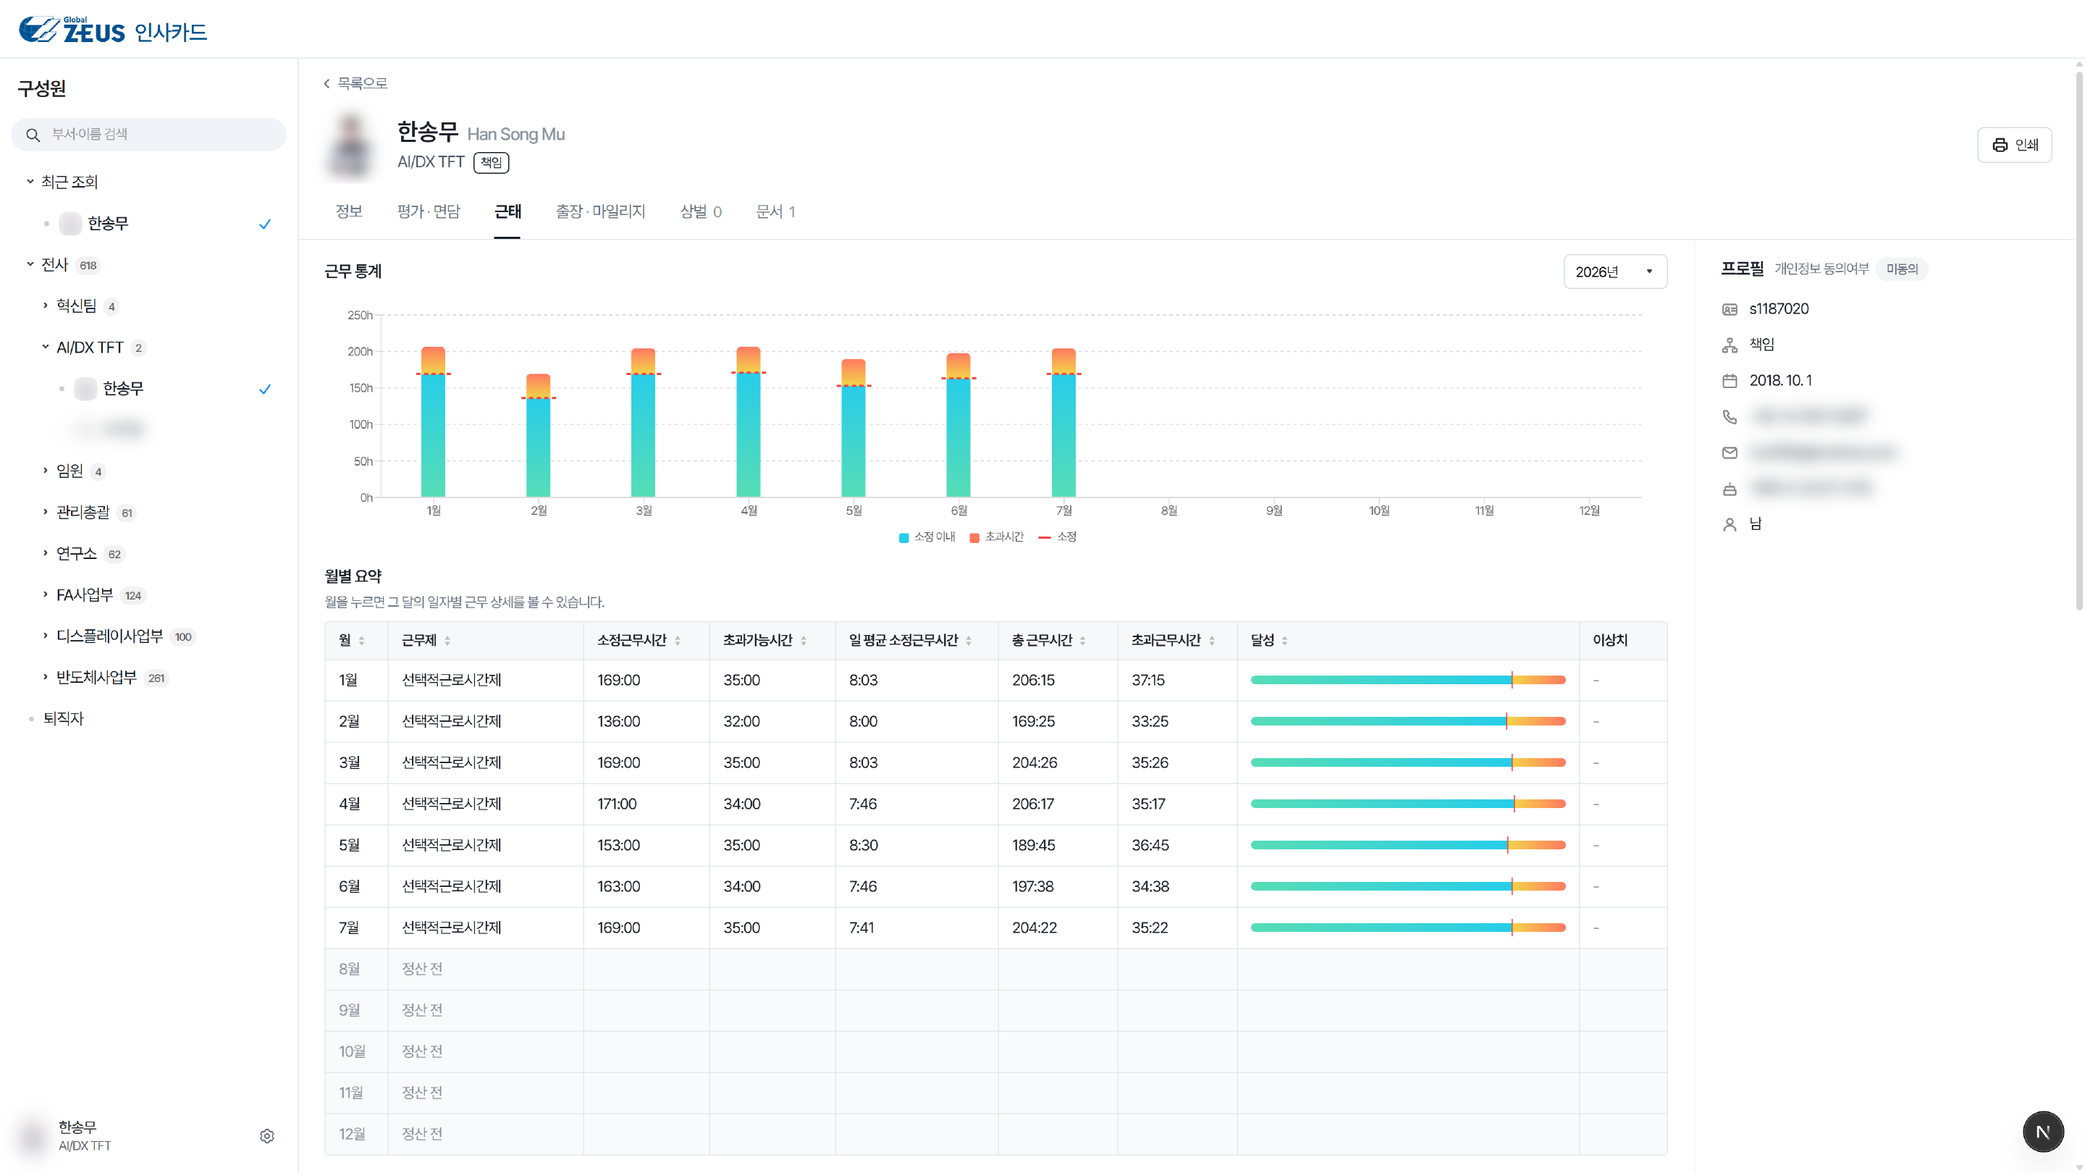
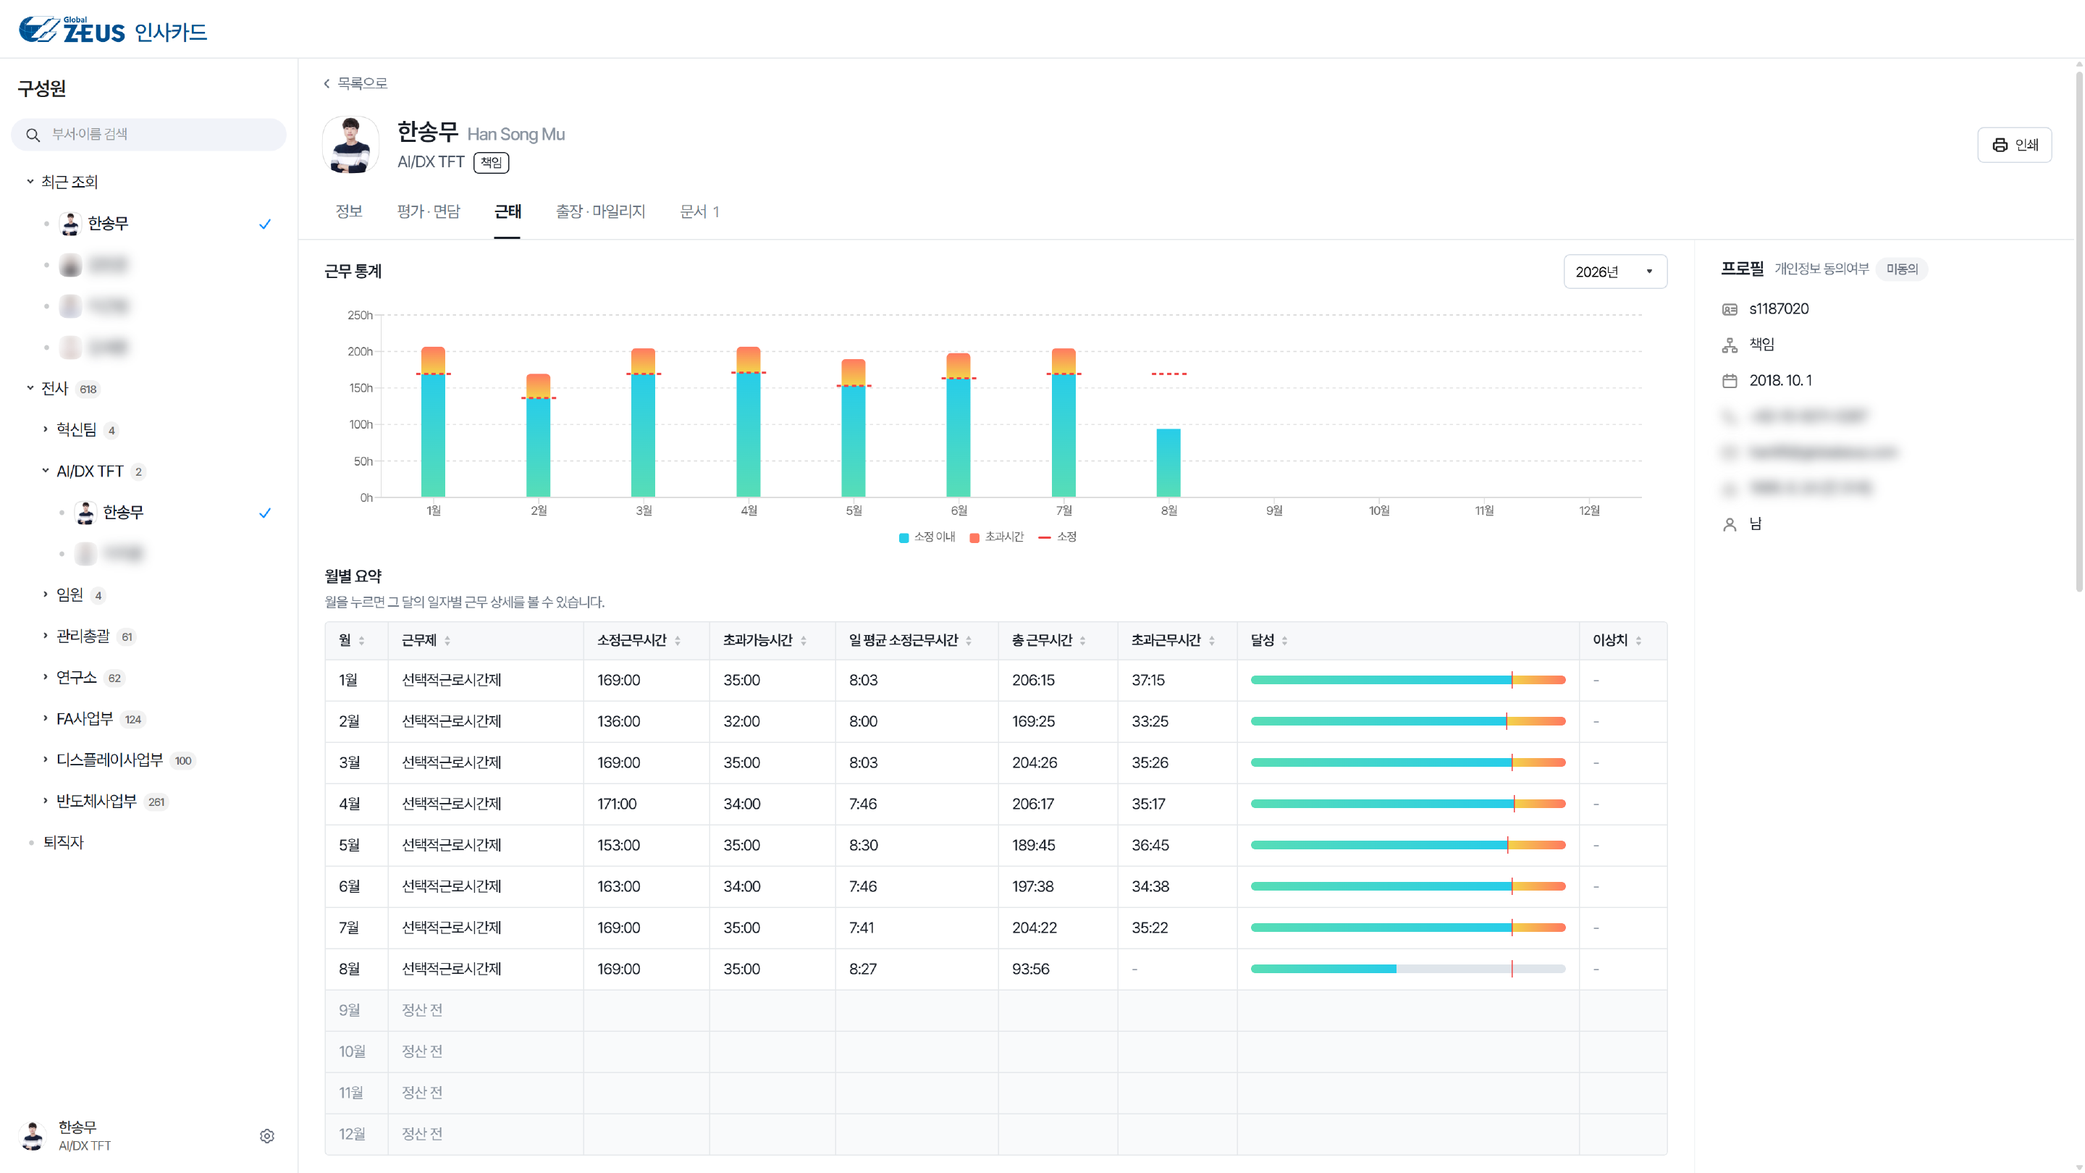
content(personnel-card): 본문을 설계 기준 중심으로 재작성
레거시와 행 단위로 대조한 수치, 옮기며 찾은 버그를 나열하던 구성이
"남긴 코드가 얼마나 나빴는지"에 가까웠다. 이번에 무엇을 기준으로
정했는지가 읽는 사람에게 쓸모 있다고 보고, 설계 기준과 그 기준이
권한·열람 기록·인쇄에서 어떻게 지켜졌는지로 다시 썼다.

같은 구성으로 화면 6종을 다시 캡처했다.

diff --git a/src/content/builds.ts b/src/content/builds.ts
@@ -12,40 +12,30 @@ export const builds: Build[] = [
     blocks: [
       { type: 'image', src: '/projects/personnel-card/196.png', alt: '인사카드 구성원 목록 화면', caption: '구성원 목록 - 조직 트리에서 부서를 고르고 표에서 사람을 찾습니다' },
       { type: 'heading', text: '개요' },
-      { type: 'paragraph', text: '임직원 한 사람의 인사 정보를 모아 보는 화면입니다. 기본 인적사항과 발령 이력, 학력과 경력, 자격증, 평가 등급처럼 인사 담당자와 조직 책임자가 확인해야 하는 자료가 여기에 모입니다. 그룹웨어를 Next.js로 옮기는 동안 이 화면만 오래된 EJS와 jQuery로 남아 있었고, 그것을 다시 만들면서 조회 성능과 그 과정에서 드러난 버그를 함께 정리했습니다.' },
-      { type: 'heading', text: '다시 만든 이유' },
-      { type: 'paragraph', text: '규모는 3,200줄 정도로 작았지만 손대기 어려운 구조였습니다. 목록과 상세를 오갈 때 AJAX로 HTML 조각을 갈아끼우는 방식이라 주소가 없었습니다. 누군가의 인사카드를 열어 둔 채 새로고침하면 목록으로 돌아가고, 뒤로가기도 링크 공유도 되지 않았습니다. 프론트 로직 1,280줄은 전부 jQuery 문자열 템플릿이었습니다.' },
-      { type: 'paragraph', text: '반대로 백엔드에는 로직이 거의 없었습니다. 데이터는 사실상 ERP 저장 프로시저를 부르는 것이 전부여서, 재구현은 화면을 다시 짜는 일에 가까웠습니다. 기능은 그대로 두고 구조만 바꾸는 것으로 범위를 잡았습니다.' },
-      { type: 'heading', text: '조회를 앱으로 가져오기' },
-      { type: 'paragraph', text: '처음에는 기존 저장 프로시저를 그대로 호출할 생각이었습니다. 화면만 다시 만드는 것이니 데이터 계층을 건드릴 이유가 없었습니다. 그런데 조회 성능을 같이 고치는 것이 목적이라면 로직이 프로시저 안에 묻혀 있는 것 자체가 걸림돌이었습니다. 그래서 조회 쿼리를 애플리케이션 코드로 옮겼습니다. 옮기고 나면 리뷰와 롤백이 가능해지고, 실제로 이때 찾은 버그들이 전부 프로시저 안에 숨어 있었습니다.' },
-      { type: 'paragraph', text: '목록 첫 페이지를 여는 데 1.2초에서 1.7초가 걸리고 있었습니다. 그중 절반 가까이는 근태와 연차 집계였습니다. 링크드 서버에서 1년치 전건 3만여 행을 임시 테이블로 끌어와 직원별 합계 하나를 만들고 있었습니다.' },
-      { type: 'paragraph', text: '이상해 보이지만 이유가 있는 코드였습니다. 같은 집계를 원격 테이블 이름으로 그냥 쓰면 옵티마이저가 집계를 원격으로 넘기지 않고 행마다 왕복합니다. 그렇게 바꿔 보니 250초가 지나도 끝나지 않았습니다. 답은 OPENQUERY로 집계를 원격에서 강제로 수행시키는 것이었고, 이 구간이 774ms에서 65ms로 줄었습니다. 여기에 한 명을 보려고 전 직원을 만들어 두고 한 행만 고르던 다중문 함수를 인라인 조인으로 풀고, 값이 채워진 적 없어 항상 0행이면서 매번 6방향 조인을 하던 겸직 처리를 걷어냈습니다.' },
-      { type: 'paragraph', text: '결과가 같은지는 재직 618명과 퇴직 872명, 검색과 부서 조회까지 레거시와 행 단위로 대조해 확인했습니다. 성능을 고치는 작업에서 가장 위험한 것은 빨라진 대신 답이 달라지는 것이라, 이 대조를 통과하기 전까지는 옮긴 쿼리를 믿지 않았습니다.' },
-      { type: 'paragraph', text: '옮기는 과정에서 드러난 것도 있습니다. 목록의 정렬 15종이 통째로 동작하지 않았습니다. 프로시저가 행 번호를 매길 때 조직도 순서를 고정키로 맨 앞에 두어서, 뒤에 붙인 동적 정렬키가 동점 처리로도 쓰이지 않았습니다. 입사일 오름차순과 내림차순, 이름 내림차순이 모두 같은 순서를 돌려주고 있었습니다. 정렬키를 문자열로 변환해 두어 숫자가 사전순으로 정렬되는 문제도 함께 있었습니다. 살려 놓기만 하면 10이 9보다 앞에 오는 새 버그가 될 자리였습니다.' },
-      { type: 'heading', text: '상세와 주소' },
-      { type: 'paragraph', text: '상세는 저장 프로시저 여섯 개를 한 배치로 실행하고 결과셋을 위치 인덱스로 꺼내 쓰고 있었습니다. 프로시저 안에 SELECT가 하나만 늘어도 아홉 개 섹션이 통째로 밀리는 구조입니다. 실제로 이름이 어긋난 자리가 하나 있었는데, 담긴 내용이 우연히 비슷해서 아무도 눈치채지 못한 상태였습니다. 재구현하면서 이 매핑을 이름 기반으로 고정했습니다.' },
+      { type: 'paragraph', text: '임직원 한 사람의 인사 정보를 모아 보는 화면입니다. 기본 인적사항과 발령 이력, 학력과 경력, 자격증, 평가 등급처럼 인사 담당자와 조직 책임자가 확인해야 하는 자료가 여기에 모입니다. 2023년에 EJS와 jQuery로 처음 만들어 3년 동안 쓰인 화면을, 2026년에 Next.js 구조로 다시 만들었습니다.' },
+      { type: 'heading', text: '설계 기준' },
+      { type: 'paragraph', text: '먼저 정한 것은 화면 상태를 주소로 표현하는 것입니다. 인사카드는 열어 둔 채로 다시 보거나 다른 담당자에게 건네는 일이 잦아서, 지금 보고 있는 사람과 탭이 주소에 남아야 새로고침과 뒤로가기, 링크 공유가 모두 성립합니다. 목록과 상세, 탭 전환을 전부 라우팅으로 잡았습니다.' },
+      { type: 'paragraph', text: '데이터 쪽에서는 조회를 앱이 책임지는 쪽으로 범위를 잡았습니다. 인사 데이터는 ERP 저장 프로시저를 부르는 것으로 끝나 있어 화면만 바꾸는 선택도 가능했지만, 조회 성능과 정확성까지 다루려면 로직이 코드에 있어야 리뷰와 롤백, 측정이 가능합니다.' },
+      { type: 'heading', text: '상세' },
+      { type: 'paragraph', text: '상세는 한 번의 배치로 아홉 개 섹션을 채웁니다. 결과셋을 순서로 꺼내면 쿼리에 SELECT가 하나만 늘어도 섹션이 통째로 밀리므로, 매핑을 순서가 아니라 이름으로 고정했습니다. 데이터가 바뀌면 화면이 비게 되더라도, 조용히 틀린 값을 보여주지는 않습니다.' },
       { type: 'image', src: '/projects/personnel-card/198.png', alt: '인사카드 상세 정보 탭', caption: '상세 정보 - 기본 정보와 발령 이력, 학력과 경력이 한 화면에 이어집니다' },
-      { type: 'paragraph', text: '학력 표의 학력 컬럼은 전원 공백이었습니다. 학력 결과셋의 별칭은 UMSchCareerNam인데 화면은 UMSchCareerName을 읽고 있었고, 뒤엣것은 가족사항 결과셋의 컬럼이었습니다. 이름이 비슷해 잘못 가져다 쓴 것이 그대로 남아 있었습니다. 연락처에 늘 undefined가 찍히던 것도 같은 종류로, 프로시저가 내려준 적 없는 필드를 화면이 참조하고 있었습니다.' },
-      { type: 'paragraph', text: '그리고 상세에 주소가 생겼습니다. 뒤로가기와 새로고침, 링크 공유가 처음으로 동작합니다.' },
       { type: 'heading', text: '권한과 열람 기록' },
-      { type: 'paragraph', text: '인사카드는 주민등록번호와 가족, 병역, 주소까지 실려 나가는 화면이라 권한 판정을 흩어 놓으면 안 됩니다. 들어올 수 있는지, 그 사람을 볼 수 있는지, 조회 사유를 받아야 하는지를 세 층으로 나누고 판정은 한 파일만 거치게 했습니다.' },
+      { type: 'paragraph', text: '인사카드는 주민등록번호와 가족, 병역, 주소까지 실려 나가는 화면입니다. 권한 판정이 여러 곳에 흩어지면 한 곳만 놓쳐도 사고가 되므로, 들어올 수 있는지, 그 사람을 볼 수 있는지, 조회 사유를 받아야 하는지를 세 층으로 나누고 판정은 한 파일만 거치게 했습니다.' },
       { type: 'image', src: '/projects/personnel-card/197.png', alt: '조회 사유 입력 다이얼로그', caption: '조회 사유 - 사유를 입력해야 상세가 열리고, 입력한 사유는 열람 기록에 함께 남습니다' },
-      { type: 'paragraph', text: '조회 사유는 프론트와 프로시저가 각자 다른 기준으로 판정하고 있었습니다. 프론트는 인사 이관 전의 옛 직책 코드를 하드코딩하고 있었고 프로시저는 새 코드로 판정했습니다. 두 기준이 어긋나는 사용자는 사유 없이 요청이 나가고, 프로시저가 오류를 던져 상세가 그냥 실패했습니다. 반대 방향이면 면제 대상인데 사유를 계속 물었습니다. 판정 주체를 서버 한 곳으로 모으고 프론트의 하드코딩을 지웠습니다.' },
-      { type: 'paragraph', text: '가장 조심한 것은 열람 기록입니다. 사유 검증과 로그 적재가 원래 프로시저 안에 있어서 앱이 빼먹을 수 없는 구조였는데, 프로시저를 걷어내면 그 책임이 앱으로 넘어옵니다. 상세를 읽는 경로를 한 곳으로 좁히고, 로그가 본문 조회와 함께 성공하거나 함께 실패하도록 묶었습니다. 이걸 놓치면 감사 기록이 비는 사고가 됩니다.' },
-      { type: 'paragraph', text: '화면을 JSON API로 바꾸면서 새로 생긴 위험도 있었습니다. 레거시는 주민등록번호를 조회 결과에 담고 있었지만 서버에서 렌더돼 브라우저까지 가지 않았습니다. API 응답은 그대로 나가기 때문에 주민등록번호는 응답에서 빼고, 화면이 실제로 쓰는 성별과 생년월일, 나이만 파생해서 내려보냅니다.' },
+      { type: 'paragraph', text: '사유를 받아야 하는지도 서버가 판정하고 화면은 그 결과를 따르게 했습니다. 화면이 따로 같은 판정을 두면 두 기준이 갈라지는 순간 사유 없이 요청이 나가거나, 면제 대상에게 사유를 계속 묻게 됩니다.' },
+      { type: 'paragraph', text: '열람 기록은 특히 조심했습니다. 조회를 앱으로 가져오면 사유 검증과 로그 적재의 책임도 앱으로 넘어옵니다. 상세를 읽는 경로를 한 곳으로 좁히고, 로그가 본문 조회와 함께 성공하거나 함께 실패하도록 묶었습니다. 감사 기록이 비는 것은 화면이 느린 것과 다른 종류의 사고입니다.' },
+      { type: 'paragraph', text: '응답 설계에도 같은 기준을 뒀습니다. 화면을 JSON API로 바꾸면 조회 결과가 그대로 브라우저까지 나가므로, 주민등록번호는 응답에서 빼고 화면이 실제로 쓰는 성별과 생년월일, 나이만 파생해 내려보냅니다.' },
       { type: 'heading', text: '인사 원장 밖의 자료' },
-      { type: 'paragraph', text: '기존 인사카드는 인사 원장만 보여줬습니다. 한 사람을 파악하려면 평가와 근태를 각각 다른 화면에서 찾아봐야 했습니다. 그래서 평가와 면담, 근태, 상벌을 탭으로 붙였습니다.' },
+      { type: 'paragraph', text: '인사 원장만 보여주면 한 사람을 파악하는 데 평가와 근태를 각각 다른 화면에서 찾아야 하고, 그 이동이 한곳에 모아 본다는 목적을 반쯤 무력화합니다. 그래서 평가와 면담, 근태, 상벌을 탭으로 붙였습니다.' },
       { type: 'image', src: '/projects/personnel-card/199.png', alt: '평가와 면담 탭 화면', caption: '평가와 면담 - 등급 추이 아래로 회차별 목표와 면담 이력이 이어집니다' },
-      { type: 'paragraph', text: '평가와 면담에서 조심한 것은 비공개 판정입니다. 목표와 면담의 비공개 여부를 판정하는 함수가 각각 있는데 돌려주는 것이 정반대입니다. 하나는 숨겨야 할 목록을 주고, 다른 하나는 볼 수 있는 목록을 줍니다. 거꾸로 쓰면 전량 유출이거나 전량 공백이 됩니다. 면담은 3,013건 중 55%가 비공개라 실수하면 바로 드러나지만, 목표는 3.5%뿐이라 조용히 새어 나갑니다.' },
-      { type: 'paragraph', text: '문제는 이것을 화면으로 검증할 수 없다는 점이었습니다. 제 계정이 인사평가 관리자라 관리자 분기를 타서 전부 보입니다. 그래서 판정 함수를 직접 불러 대조하는 스크립트를 따로 만들어 확인했습니다. 면담 본문은 리치 에디터가 만든 HTML이라 서버에서 살균하는데, 살균이 내용을 깎아내지 않는지 3,006건을 전수 검사해 표와 이미지가 그대로 남는 것을 확인했습니다.' },
+      { type: 'paragraph', text: '평가와 면담에는 본인과 평가자만 볼 수 있는 항목이 섞여 있습니다. 이 판정을 인사카드가 새로 쓰면 인사평가 시스템과 기준이 갈라지므로, 기존 판정 함수를 그대로 불러 쓰기로 했습니다.' },
       { type: 'image', src: '/projects/personnel-card/200.png', alt: '근태 탭 화면', caption: '근태 - 월별 근무시간과 소정 대비 달성률을 한 해 단위로 봅니다' },
-      { type: 'paragraph', text: '근태는 다시 구현하지 않았습니다. 월 소정과 초과 목표 시간을 구하는 식에 월 일수와 평일 공휴일, 근무제 주소정이 얽혀 있어서 두 벌이 되면 조용히 갈라집니다. 그렇다고 근태 모듈의 함수를 열두 번 부르면 한 화면에 조회가 백 번 가까이 붙습니다. 집계는 인사카드 전용 쿼리로 한 번에 하고 목표 시간을 구하는 식만 함수로 빼서 공유했습니다. 계산의 출처는 계속 한 곳입니다.' },
-      { type: 'paragraph', text: '상벌은 원장을 찾는 데 시간이 걸렸습니다. 코드에도 프로시저 정의에도 상벌이라는 낱말이 한 번도 나오지 않고, Reward나 Punish로도 걸리지 않습니다. ERP가 쓰는 약어가 PrzPnl이었습니다. 운영 데이터에는 징계 사유 원문이 그대로 들어 있어서, 상세 응답에 끼워 넣지 않고 탭을 열 때만 부르는 별도 엔드포인트로 분리했습니다.' },
+      { type: 'paragraph', text: '근태는 다시 구현하지 않았습니다. 월 소정과 초과 목표 시간을 구하는 식에 월 일수와 공휴일, 근무제 주소정이 얽혀 있어서 두 벌이 되면 조용히 갈라집니다. 그렇다고 근태 모듈의 함수를 열두 번 부르면 한 화면에 조회가 백 번 가까이 붙습니다. 집계는 인사카드 전용 쿼리로 한 번에 하고 계산식만 함수로 빼서 공유했습니다. 화면은 새로 만들어도 계산의 출처는 계속 한 곳입니다.' },
       { type: 'heading', text: '인쇄' },
       { type: 'image', src: '/projects/personnel-card/201.png', alt: '인사카드 인쇄 화면', caption: '인쇄 - 왼쪽에서 담을 항목을 고르면 오른쪽 미리보기가 바로 바뀝니다' },
       { type: 'paragraph', text: '인사카드를 종이로 뽑아야 하는 일이 있습니다. 참고한 다른 제품은 항목 선택을 모달로 먼저 받고 미리보기를 띄우는데, 무엇이 빠지는지 보면서 고르는 편이 낫다고 판단해 옵션과 미리보기를 한 화면에 두었습니다.' },
-      { type: 'paragraph', text: '인쇄는 별도 창으로 열리기 때문에 상세에서 받은 조회 사유가 따라오지 않습니다. 주소에 실으면 접근 로그에 사유가 그대로 박히므로 sessionStorage로 넘겼습니다. 새 창은 열리는 시점의 sessionStorage 사본을 물려받지만 주소를 직접 친 탭은 빈 상태라, 상세를 거쳐서만 열린다는 조건이 따라옵니다. 물론 이건 사용 흐름을 잡아 주는 장치고 경계는 아닙니다. 권한과 열람 기록은 서버가 그대로 판정합니다.' },
-      { type: 'paragraph', text: '마지막에 걸린 것은 실제 인쇄물이었습니다. 화면과 인쇄 미리보기는 멀쩡한데 뽑아 보면 표 머리의 회색 띠가 통째로 사라졌습니다. 브라우저가 기본적으로 배경색을 인쇄하지 않기 때문입니다. 스크린샷으로는 잡히지 않는 종류의 문제라, 배경 그래픽을 끈 상태로 PDF를 뽑아 재현한 뒤 인쇄에서도 배경이 남도록 고정했습니다.' },
+      { type: 'paragraph', text: '인쇄는 별도 창이라 상세에서 받은 조회 사유가 따라오지 않습니다. 주소에 실으면 접근 로그에 사유가 그대로 박히므로 sessionStorage로 넘겼습니다. 이건 사용 흐름을 잡아 주는 장치일 뿐이고, 권한과 열람 기록은 인쇄 창에서도 서버가 그대로 판정합니다.' },
+      { type: 'paragraph', text: '브라우저는 기본적으로 배경색을 인쇄하지 않아서, 그대로 두면 표 머리의 회색 띠가 종이에서만 사라집니다. 미리보기와 인쇄물이 같아야 미리보기가 제 역할을 하므로 인쇄에서도 배경이 남도록 고정했습니다.' },
     ],
   },
   {
